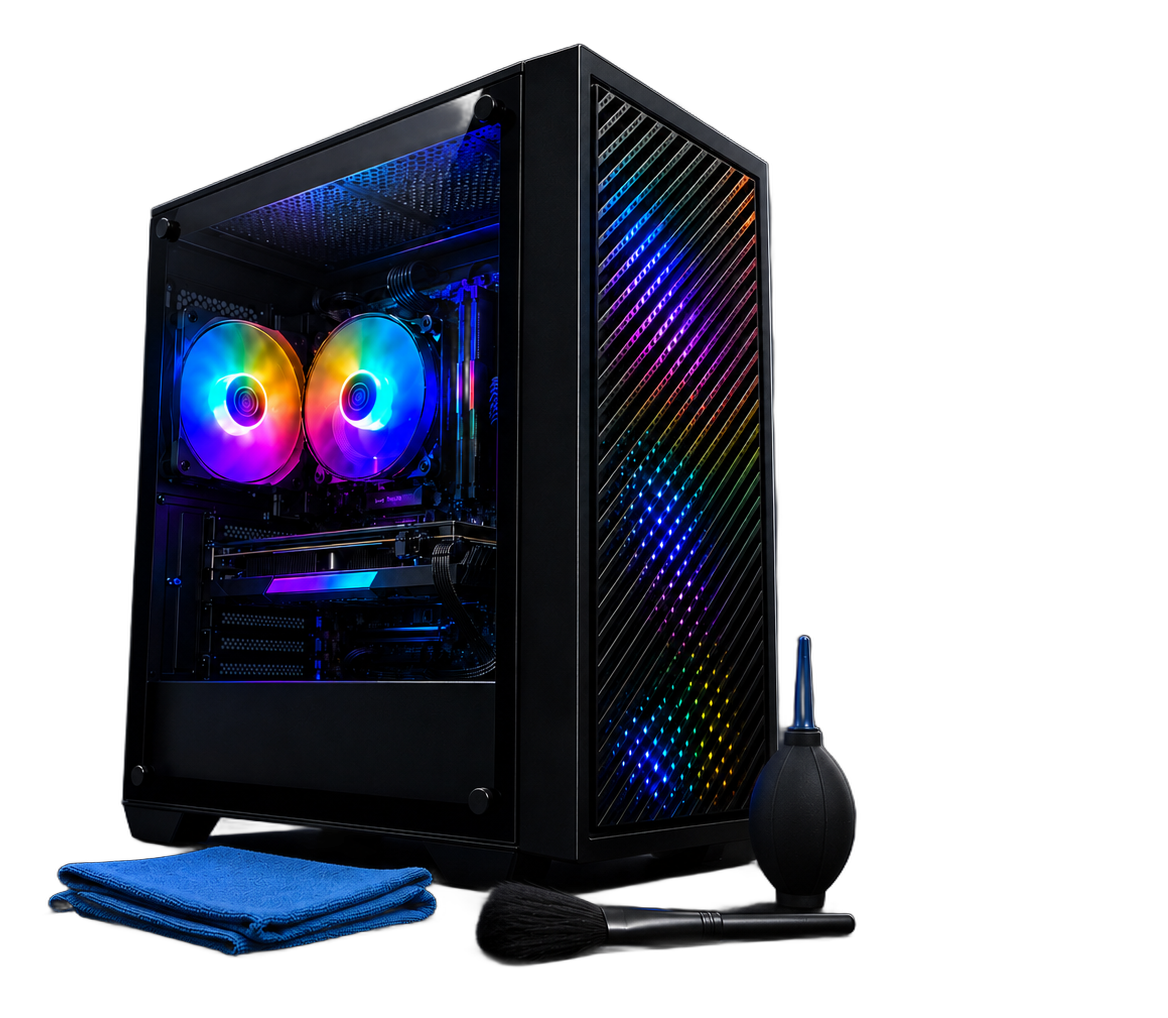
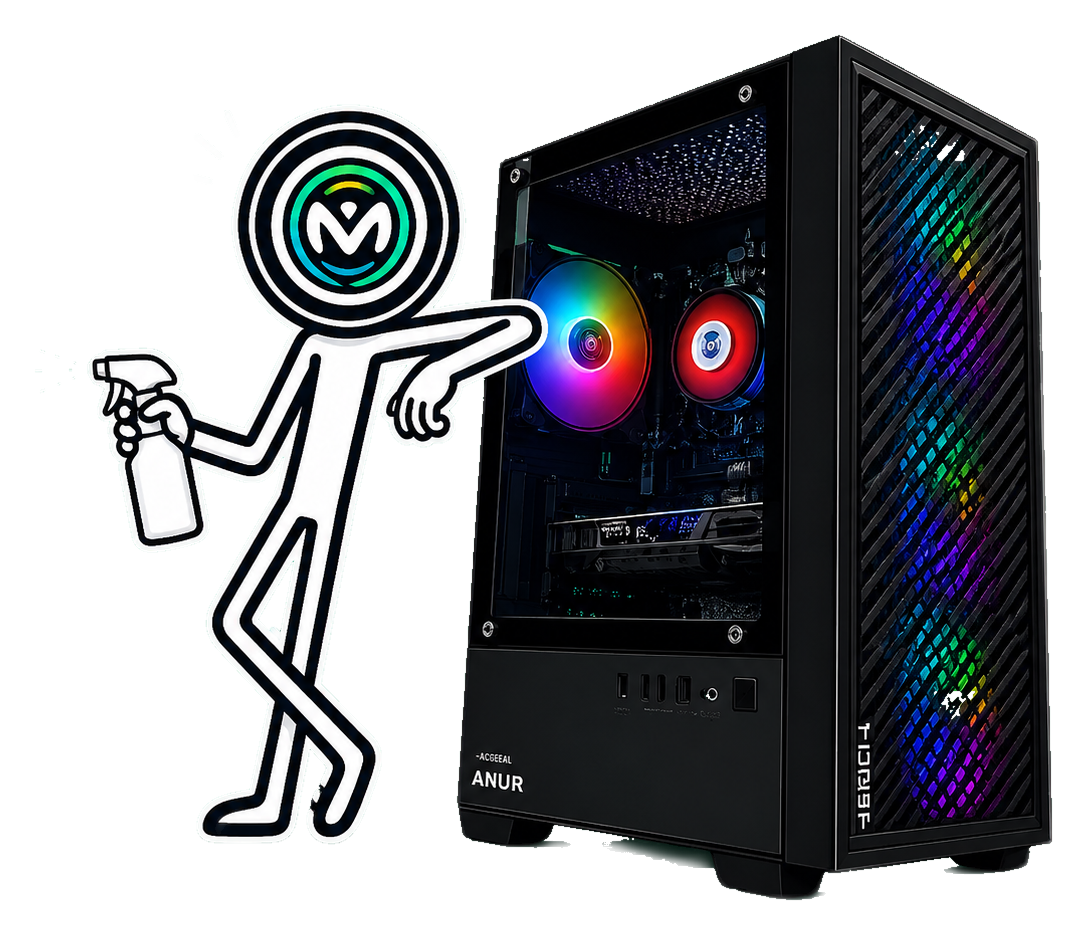
Update cleaning service cutout

diff --git a/index.html b/index.html
@@ -2225,14 +2225,14 @@
       .cleaning-media img {
         position: relative;
         z-index: 2;
-        width: min(126%, 720px);
+        width: min(116%, 760px);
         max-width: none;
         height: auto;
-        max-height: calc(100% - 48px);
+        max-height: calc(100% + 54px);
         object-fit: contain;
         object-position: center;
         opacity: 1;
-        transform: translateY(-28px) scale(1.08);
+        transform: translateY(-20px) scale(1.04);
         filter:
           saturate(1.12)
           contrast(1.08)
@@ -2619,9 +2619,9 @@
           min-height: 430px;
         }
         .cleaning-media img {
-          width: min(120%, 500px);
-          max-height: calc(100% - 72px);
-          transform: translate(12px, -10px) scale(1.04);
+          width: min(114%, 510px);
+          max-height: calc(100% + 32px);
+          transform: translateY(-8px) scale(1.02);
         }
         .cleaning-content h2 {
           font-size: clamp(30px, 9vw, 42px);
@@ -2953,13 +2953,6 @@
       <section id="limpeza-pcs" class="cleaning-service" aria-labelledby="cleaning-title">
         <div class="cleaning-media">
           <img id="cleaning-photo" src="./assets/pc-cleaning-service-cutout.png" alt="PC gamer limpo com acessorios para limpeza e troca de pasta termica">
-          <div class="cleaning-media-badge" aria-hidden="true">
-            <svg viewBox="0 0 24 24" fill="none" stroke="currentColor" stroke-width="1.8" stroke-linecap="round" stroke-linejoin="round">
-              <path d="M12 3 20 6v6c0 4.6-3.2 7.7-8 9-4.8-1.3-8-4.4-8-9V6l8-3Z"></path>
-              <path d="m9 12 2 2 4-5"></path>
-            </svg>
-            Manuten&ccedil;&atilde;o completa
-          </div>
         </div>
         <div class="cleaning-content">
           <p class="eyebrow">